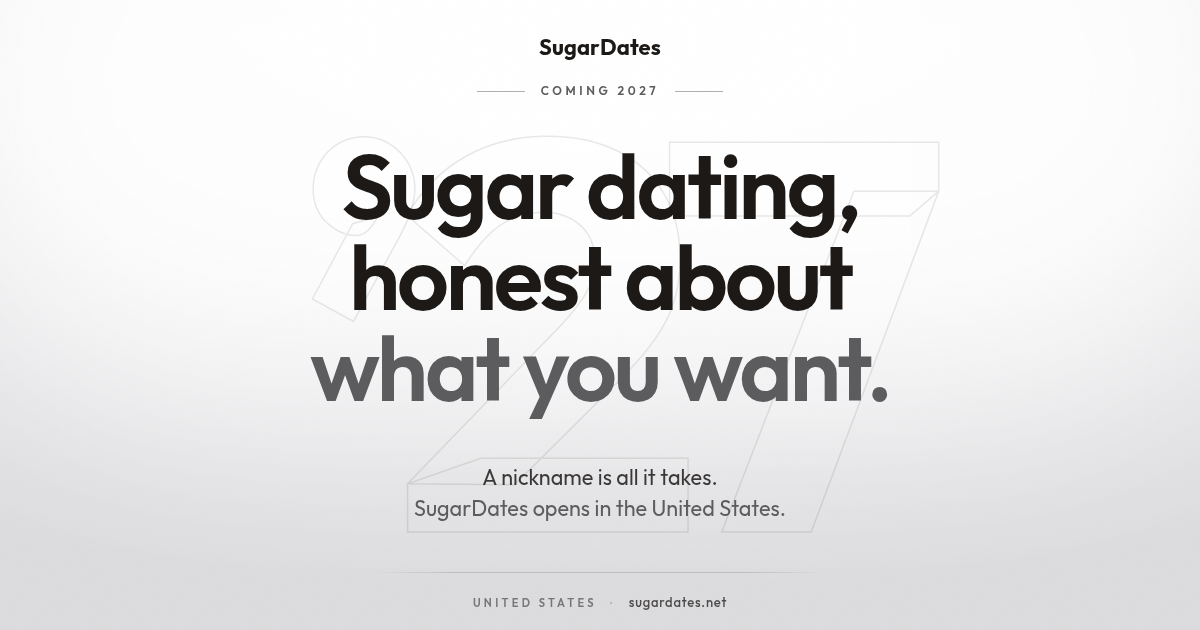
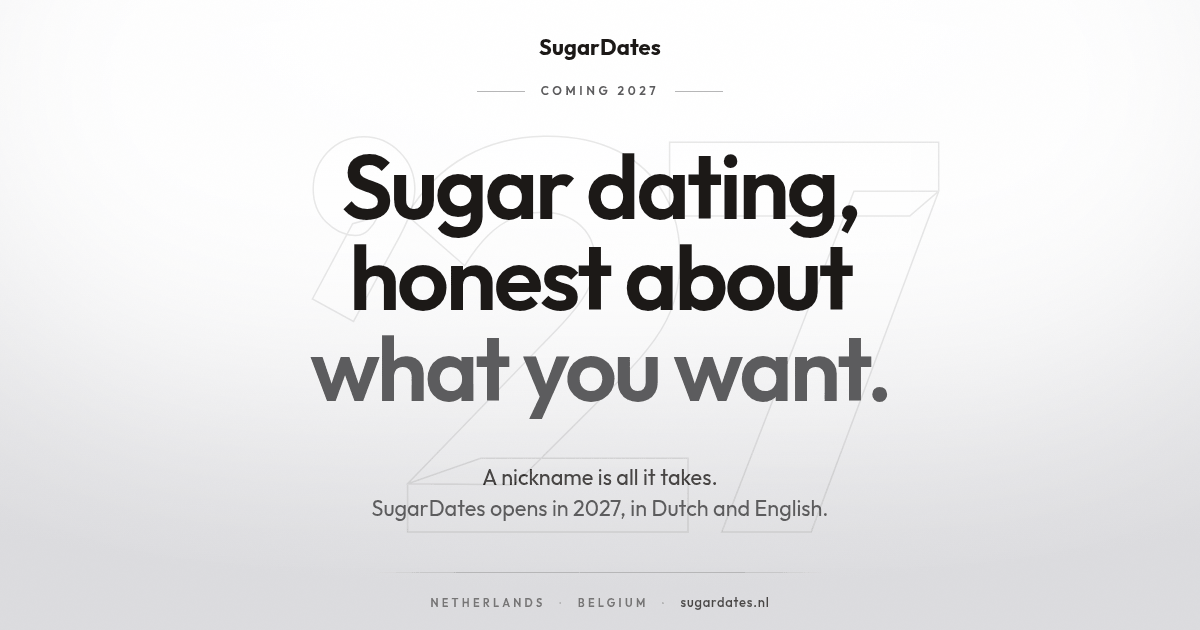
Teaser EN: general English copy for sugardates.nl hosting (no US wording), hreflang en

Changed region(s): [[0.3083, 0.7841, 0.6783, 0.8444], [0.37, 0.9349, 0.6475, 0.9651]]

diff --git a/teaser-en.html b/teaser-en.html
@@ -1,15 +1,15 @@
 <!doctype html>
-<html lang="en-US">
+<html lang="en">
 <head>
 <meta charset="utf-8">
 <meta name="viewport" content="width=device-width,initial-scale=1,viewport-fit=cover">
 <title>SugarDates – Coming 2027</title>
-<meta name="description" content="Sugar dating, honest about what you want. SugarDates opens in the United States in 2027.">
+<meta name="description" content="Sugar dating, honest about what you want. SugarDates opens in 2027, in Dutch and English.">
 <meta name="robots" content="noindex,nofollow">
 <meta name="theme-color" content="#f1f1f2">
 <meta property="og:title" content="SugarDates – Coming 2027">
-<meta property="og:description" content="A nickname is all it takes. SugarDates opens in the United States in 2027.">
-<meta property="og:locale" content="en_US">
+<meta property="og:description" content="A nickname is all it takes. SugarDates opens in 2027 in the Netherlands and Belgium, in Dutch and English.">
+<meta property="og:locale" content="en_GB">
 <meta property="og:image" content="https://realmrhodl.github.io/sugardates-nl/teaser-assets/og-type-us.png">
 <meta property="og:image:width" content="1200">
 <meta property="og:image:height" content="630">
@@ -17,7 +17,7 @@
 <link rel="icon" href="v12/assets/logo.svg" type="image/svg+xml">
 <link rel="canonical" href="https://realmrhodl.github.io/sugardates-nl/teaser-en.html">
 <link rel="alternate" hreflang="nl" href="https://realmrhodl.github.io/sugardates-nl/teaser.html">
-<link rel="alternate" hreflang="en-US" href="https://realmrhodl.github.io/sugardates-nl/teaser-en.html">
+<link rel="alternate" hreflang="en" href="https://realmrhodl.github.io/sugardates-nl/teaser-en.html">
 <link rel="alternate" hreflang="x-default" href="https://realmrhodl.github.io/sugardates-nl/teaser.html">
 <link rel="preload" as="font" type="font/woff2" href="v12/fonts/outfit-latin-wght.woff2" crossorigin>
 <script src="https://cdn.tailwindcss.com"></script>
@@ -101,12 +101,12 @@ document.addEventListener('click',function(e){var a=e.target.closest&&e.target.c
     </h1>
 
     <p class="mt-10 sm:mt-12 max-w-[34rem] text-[1.15rem] sm:text-[1.35rem] leading-[1.45] text-ink/85 animate-fadeup [animation-delay:1500ms]">
-      A nickname is all it takes.<br><span class="text-graphite">SugarDates opens in the United States.</span>
+      A nickname is all it takes.<br><span class="text-graphite">SugarDates opens in 2027, in Dutch and&nbsp;English.</span>
     </p>
 
     <span class="rule mt-10 sm:mt-12 block h-px w-full max-w-[28rem] origin-center animate-drawc [animation-delay:1650ms]" aria-hidden="true"></span>
     <p class="mt-5 text-[11px] font-semibold uppercase tracking-[0.3em] text-graphite/80 animate-fadein [animation-delay:1800ms]">
-      United States <span class="mx-2 text-ink/25">·</span> <span class="normal-case tracking-[0.06em] text-[13px] font-medium text-ink/75">sugardates.net</span>
+      Netherlands <span class="mx-2 text-ink/25">·</span> Belgium <span class="mx-2 text-ink/25">·</span> <span class="normal-case tracking-[0.06em] text-[13px] font-medium text-ink/75">sugardates.nl</span>
     </p>
   </main>
 

diff --git a/teaser.html b/teaser.html
@@ -17,7 +17,7 @@
 <link rel="icon" href="v12/assets/logo.svg" type="image/svg+xml">
 <link rel="canonical" href="https://realmrhodl.github.io/sugardates-nl/teaser.html">
 <link rel="alternate" hreflang="nl" href="https://realmrhodl.github.io/sugardates-nl/teaser.html">
-<link rel="alternate" hreflang="en-US" href="https://realmrhodl.github.io/sugardates-nl/teaser-en.html">
+<link rel="alternate" hreflang="en" href="https://realmrhodl.github.io/sugardates-nl/teaser-en.html">
 <link rel="alternate" hreflang="x-default" href="https://realmrhodl.github.io/sugardates-nl/teaser.html">
 <link rel="preload" as="font" type="font/woff2" href="v12/fonts/outfit-latin-wght.woff2" crossorigin>
 <script src="https://cdn.tailwindcss.com"></script>

diff --git a/HANDOFF.md b/HANDOFF.md
@@ -133,3 +133,8 @@ Two separate, single-language teasers (12 Nov late evening PT: Stefan found the 
 - US city guides: New York, Boston, Washington DC, Miami, Atlanta, Dallas, Houston, Chicago, Los Angeles, San Francisco, Seattle, Las Vegas; hub grouped East Coast / The South / Texas / Midwest / The West. NL keeps NL+BE cities.
 - US copy pass on all EN pages (closing panel “Ready when you are.”, “Join for free”, “Read next”, rideshare wording, rewritten leads, USD wording on cost/affiliate, FAQ “Where is SugarDates available?” = 50 states + DC). No NL/Europe/euro references on US pages except the operator address on Company information. NL pages: SugarDates.net/VS/dollar mentions removed.
 - hreflang: NL pages nl-NL + nl-BE, US pages en-US; pages without a twin are self-referencing. City hubs switch to each other.
+
+## 2026-11-13 – Teaser production package for sugardates.nl
+- Stefan: "we hosten m op .nl" + "send me html css js files". Both teasers are hosted on sugardates.nl: `/` (NL) and `/en/` (EN).
+- `teaser-en.html` copy is no longer US-only: “A nickname is all it takes. / SugarDates opens in 2027, in Dutch and English.”, meta line “Netherlands · Belgium · sugardates.nl”, lang=en, og:locale en_GB, hreflang `en`. og image `teaser-assets/og-type-us.png` regenerated with that copy.
+- Self-hostable package (compiled Tailwind 3.4.19, no CDN, no third-party requests, lang.js, .htaccess, robots/sitemap): `/workspace/sugardates-teaser-dist/` + `/workspace/sugardates-teaser.zip` on the box. Build sources: `/workspace/sd-build/` (tailwind.config.js, input.css, gen.py, og.py, test.py). Rebuild: `python3 gen.py && npx tailwindcss -c tailwind.config.js -i input.css -o ../sugardates-teaser-dist/assets/css/style.css --minify`.
